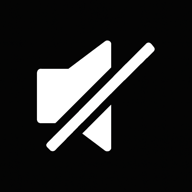
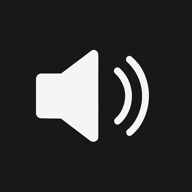
Add files via upload

Changed region(s): [[0.1562, 0.1875, 0.8125, 0.8125], [0.375, 0.3125, 0.4062, 0.3438]]

diff --git a/index.html b/index.html
@@ -2,7 +2,8 @@
 <!DOCTYPE html>
 <html lang="zh-TW">
 <head>
-  <!-- head區塊：包含網頁的基本資訊與引入 manifest（PWA設定） -->
+  <link rel="icon" href="icon-192.png">
+  <link rel="apple-touch-icon" href="icon-192.png">
   <meta charset="UTF-8">
   <title>班級無聲廣播系統</title>
   <meta name="viewport" content="width=device-width, initial-scale=1.0">
@@ -96,8 +97,6 @@
   </style>
 </head>
 <body>
-  
-  <!-- 背景圖片容器，會自動輪播，圖片放在 <img> 裡，並透過 JS 定時切換 .active -->
   <div class="background">
     <img src="https://raw.githubusercontent.com/hikaruhen/broadcast/main/be01.jpg" class="active">
     <img src="https://raw.githubusercontent.com/hikaruhen/broadcast/main/be02.jpg">
@@ -110,24 +109,16 @@
     <img src="https://raw.githubusercontent.com/hikaruhen/broadcast/main/be09.jpg">
   </div>
 
-  
-  <!-- 顯示當前時間的區塊，內容由 JS 每秒更新 -->
   <div class="time" id="clock">載入中...</div>
 
-  
-  <!-- 廣播主要內容顯示區塊，會由 Google Sheets 取得內容並輪播 -->
   <div class="content" id="announcement-area">
     <div class="page active">📢 無聲廣播首頁</div>
   </div>
 
-  
-  <!-- 跑馬燈區塊，會從 Google Sheets B 欄載入資料並橫向滾動 -->
   <div class="marquee">
     <div class="marquee-content" id="marquee-text">載入中...</div>
   </div>
 
-  
-  <!-- 垃圾車模式區塊：在特定時間（12:20）顯示圖片並播放音樂 -->
   <div id="garbage-mode">
     <img src="gomidashi_woman.png" alt="垃圾車提醒">
     <audio id="garbage-music" loop>
@@ -163,17 +154,11 @@
     }
     setInterval(updateClock, 1000);
     // 自動每 5 分鐘刷新
-    
-    // 以下是主迴圈，每秒檢查時間是否進入垃圾車或清掃模式
-    
-    // 每 10 分鐘強制重新整理頁面，並加上 query string 避免快取
     setInterval(() => {
    location.href = location.pathname + '?t=' + new Date().getTime();
     }, 5 * 60 * 1000);
     updateClock();
 
-    
-    // 載入 Google Sheets 公開 csv 檔案，拆出每列的前後欄位
     fetch('https://docs.google.com/spreadsheets/d/e/2PACX-1vT4vzU7xZk5cwgUvNLxqjcDwn5ZnZ63o3XH8r5kK7oTvKQPSDjTezBWQbS-4wfyACro_-kCgJ1iNfFt/pub?output=csv')
       .then(response => response.text())
       .then(csvText => {
@@ -206,9 +191,7 @@
 
         const pages = document.querySelectorAll('.page');
         let pageIndex = 0;
-        
-    // 以下是主迴圈，每秒檢查時間是否進入垃圾車或清掃模式
-    setInterval(() => {
+        setInterval(() => {
           pages[pageIndex].classList.remove('active');
           pageIndex = (pageIndex + 1) % pages.length;
           pages[pageIndex].classList.add('active');
@@ -217,16 +200,12 @@
 
     const bgImgs = document.querySelectorAll('.background img');
     let bgIndex = 0;
-    
-    // 以下是主迴圈，每秒檢查時間是否進入垃圾車或清掃模式
     setInterval(() => {
       bgImgs[bgIndex].classList.remove('active');
       bgIndex = (bgIndex + 1) % bgImgs.length;
       bgImgs[bgIndex].classList.add('active');
     }, 5000);
 
-    
-    // 以下是主迴圈，每秒檢查時間是否進入垃圾車或清掃模式
     setInterval(() => {
       const now = new Date();
       const h = now.getHours();
@@ -272,9 +251,7 @@
     }, 1000);
   </script>
 
-  
-  <!-- 清掃模式區塊：在 14:51~15:05 顯示清掃圖片，不播放音樂 -->
-  <div id="cleaning-mode"  style="display:none; position:fixed; top:0; left:0; width:100%; height:100%; background:black; z-index:998; justify-content:center; align-items:center;">
+  <div id="cleaning-mode" style="display:none; position:fixed; top:0; left:0; width:100%; height:100%; background:black; z-index:998; justify-content:center; align-items:center;">
     <img src="cleaning_time.png" alt="清掃提醒" style="max-width:80%; height:auto;">
   </div>
 
